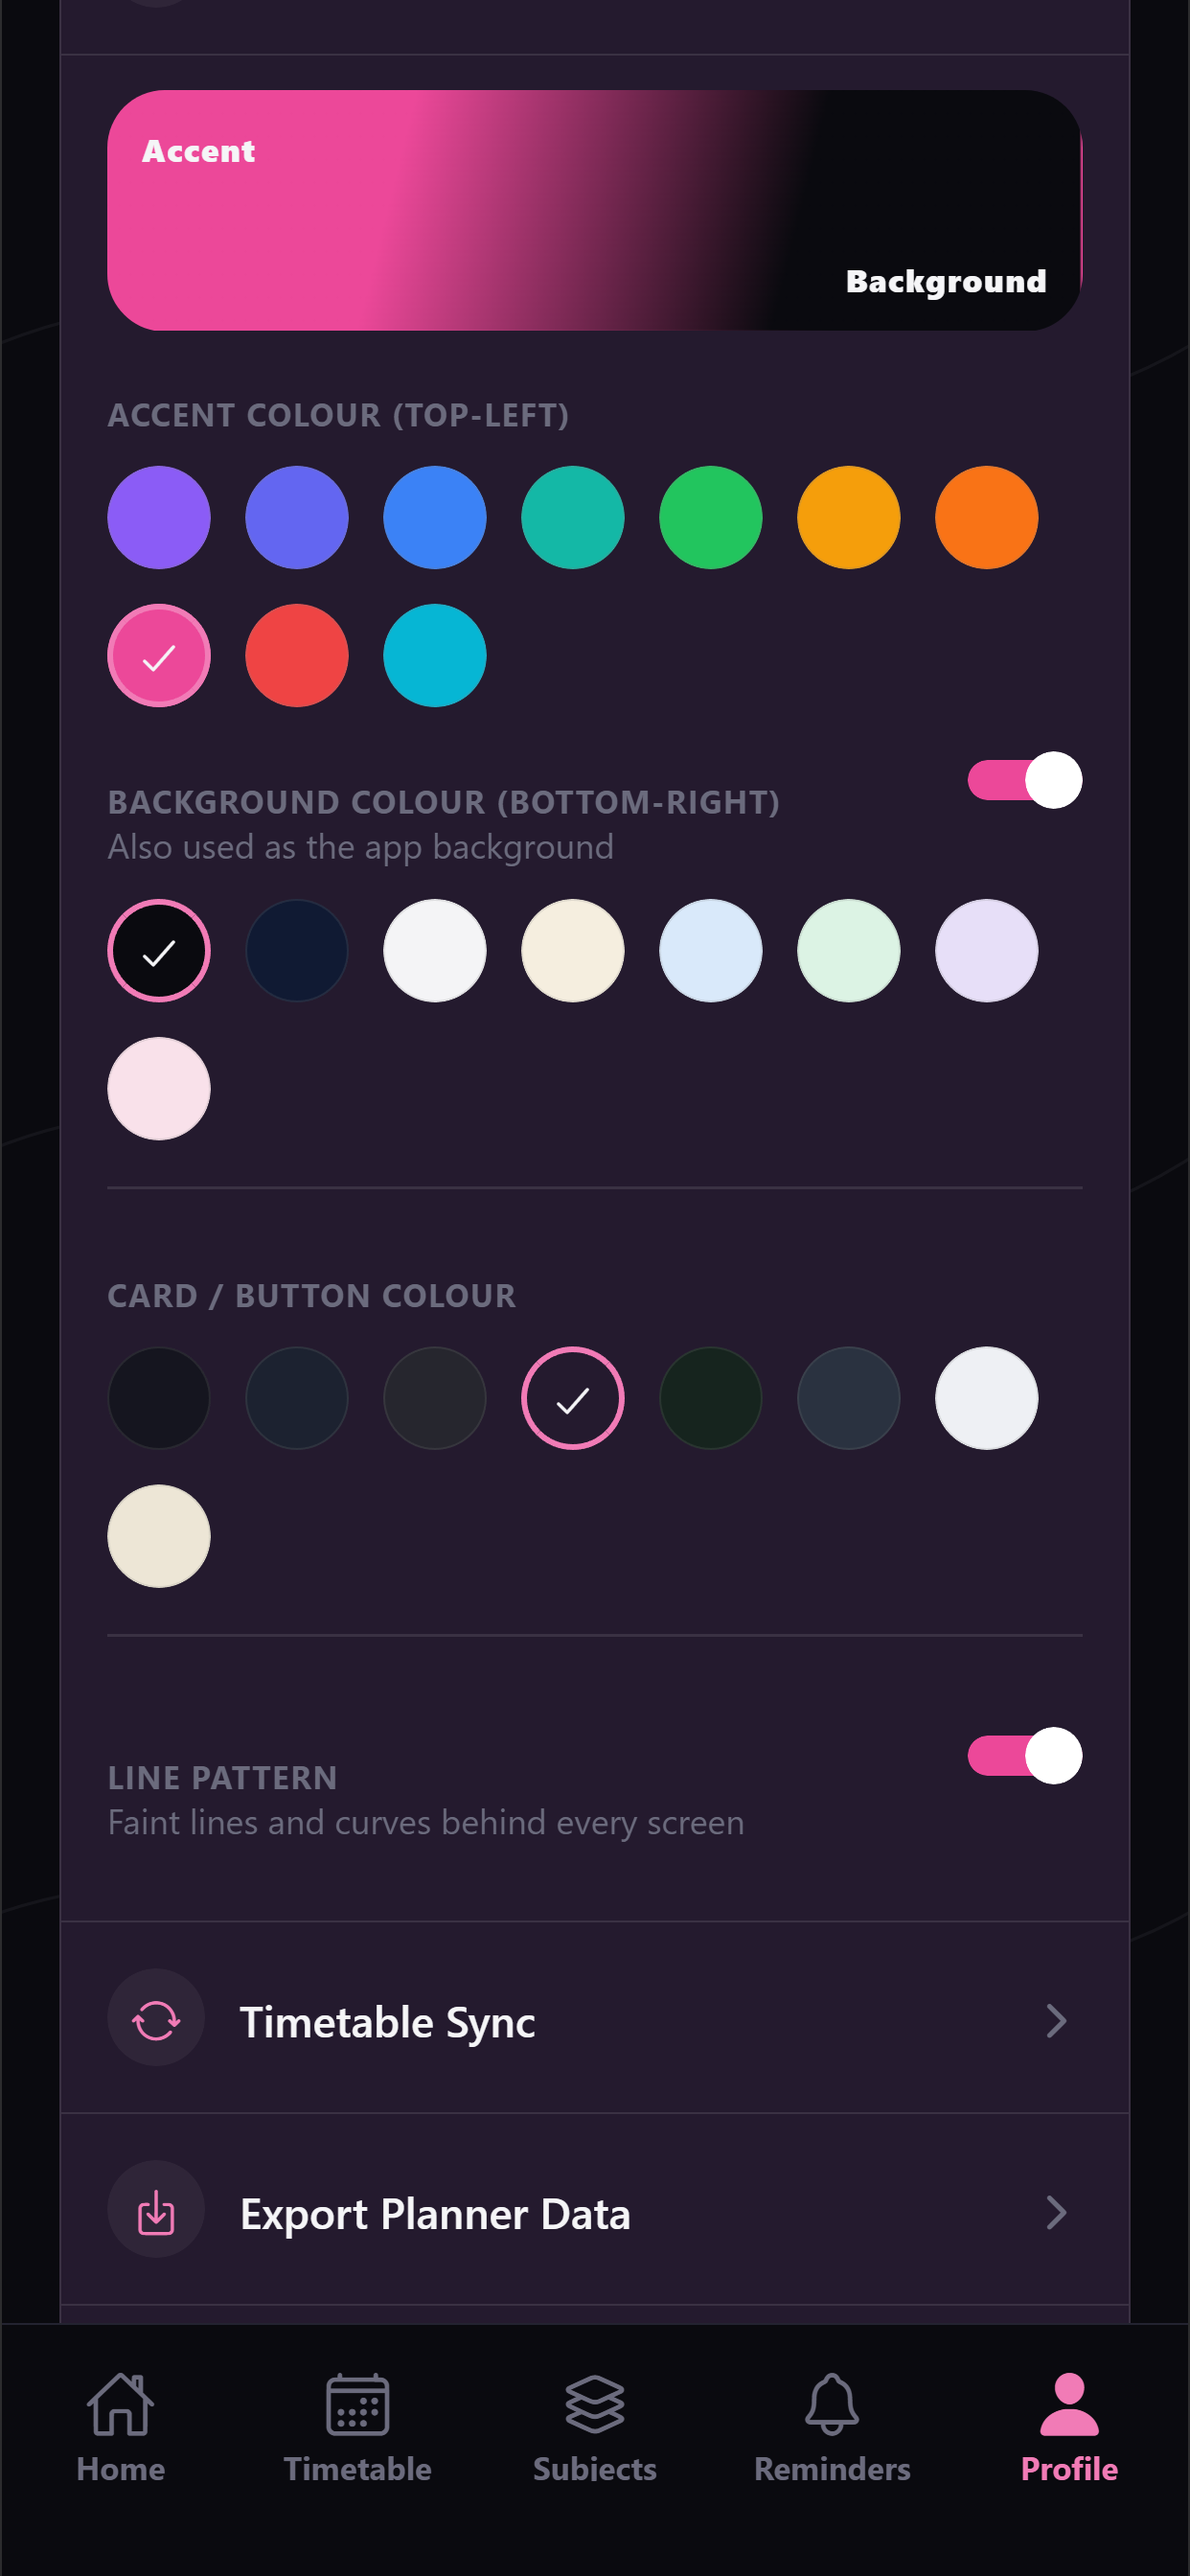
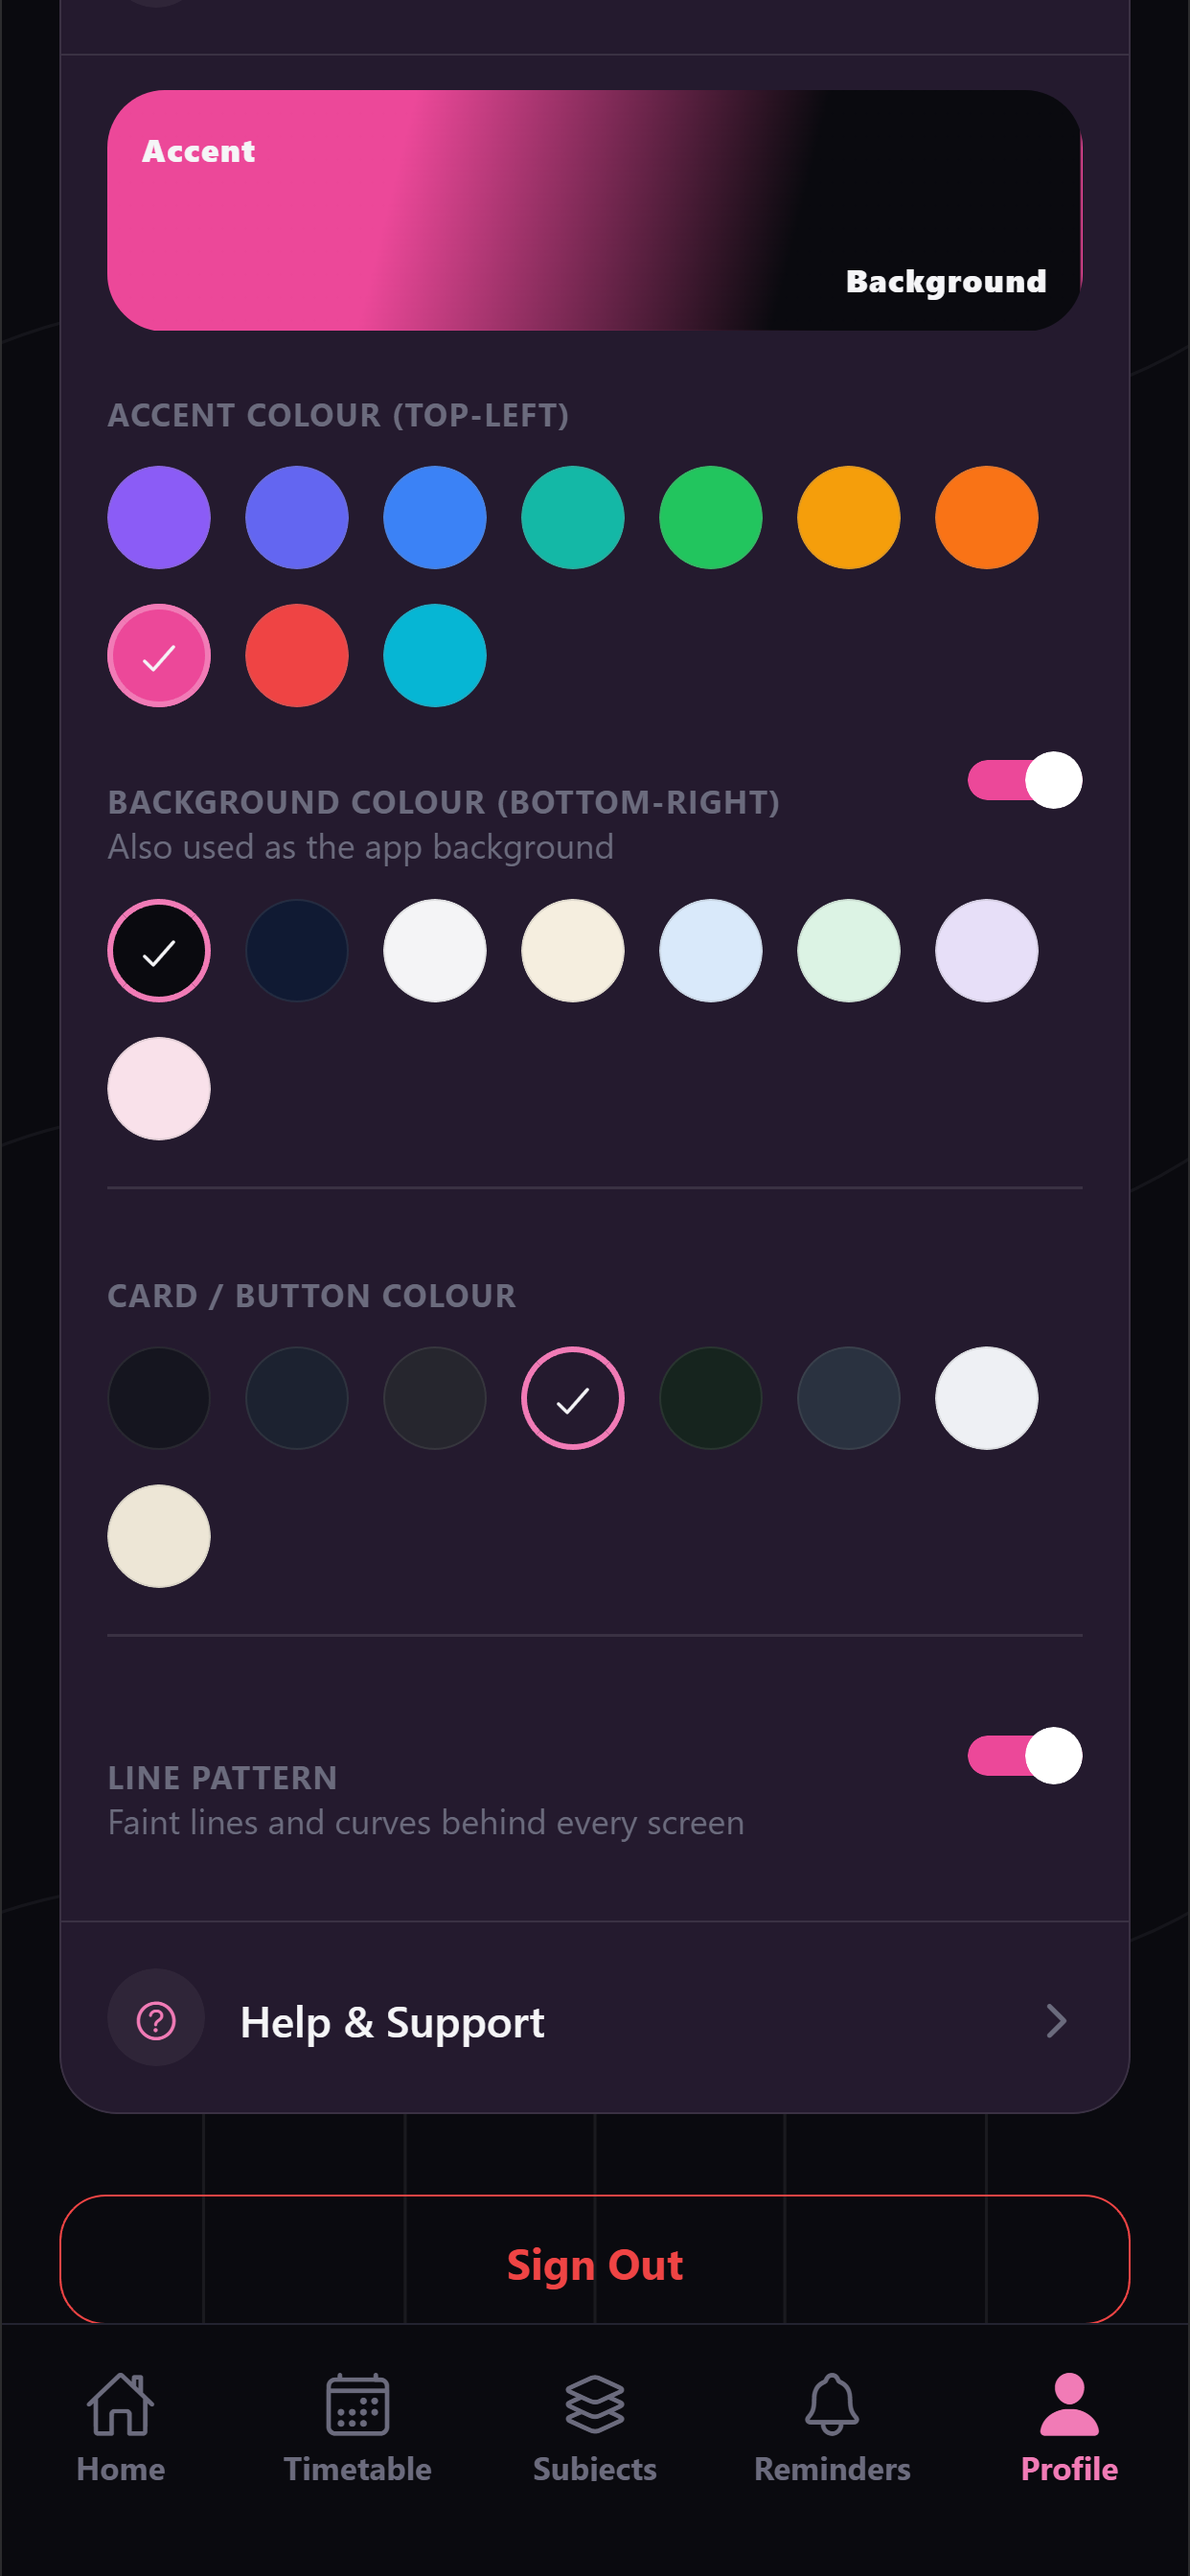
Make the profile menu do what it says
Timetable Sync and Export Planner Data are gone: both were rows with no
onPress, so tapping them did nothing, and shipping a menu item that is
only a label invites a reviewer to ask what it does.

Notifications now opens the app's own page in iOS Settings. Permission to
notify belongs to the system, so sending people there is honest about who
holds the switch, rather than drawing one we cannot honour.

Help & Support expands in place with the support address, tappable to
open a mail composer.

The App Store description loses its claim about exporting planner data,
which the app does not do.

Changed region(s): [[0.0306, 0.7812, 0.9485, 0.9062]]

diff --git a/src/screens/Profile/ProfileScreen.tsx b/src/screens/Profile/ProfileScreen.tsx
@@ -2,6 +2,7 @@ import React, { useEffect, useRef, useState } from 'react';
 import {
   Animated,
   Easing,
+  Linking,
   ScrollView,
   StyleSheet,
   Switch,
@@ -26,17 +27,24 @@ import {
   contrastText,
 } from '../../store/useThemeStore';
 
-const SETTINGS_ROWS: { icon: keyof typeof Ionicons.glyphMap; label: string }[] = [
-  { icon: 'notifications-outline', label: 'Notifications' },
-  { icon: 'color-palette-outline', label: 'Theme' },
-  { icon: 'sync-outline', label: 'Timetable Sync' },
-  { icon: 'download-outline', label: 'Export Planner Data' },
-  { icon: 'help-circle-outline', label: 'Help & Support' },
+/** Where to write when something goes wrong. */
+const SUPPORT_EMAIL = 'mystudyflowbusiness@gmail.com';
+
+const SETTINGS_ROWS: {
+  icon: keyof typeof Ionicons.glyphMap;
+  label: string;
+  /** What the row does: open iOS settings, or expand underneath itself. */
+  kind: 'notifications' | 'theme' | 'help';
+}[] = [
+  { icon: 'notifications-outline', label: 'Notifications', kind: 'notifications' },
+  { icon: 'color-palette-outline', label: 'Theme', kind: 'theme' },
+  { icon: 'help-circle-outline', label: 'Help & Support', kind: 'help' },
 ];
 
 export function ProfileScreen() {
   const t = useBaseTheme();
   const [themeExpanded, setThemeExpanded] = useState(false);
+  const [helpExpanded, setHelpExpanded] = useState(false);
   const baseColor = useThemeStore((s) => s.baseColor);
   const setBaseColor = useThemeStore((s) => s.setBaseColor);
   const accentColor = useThemeStore((s) => s.accentColor);
@@ -96,7 +104,9 @@ export function ProfileScreen() {
 
         <View style={[styles.settingsList, { backgroundColor: t.card, borderColor: t.cardBorder }]}>
           {SETTINGS_ROWS.map((row, i) => {
-            const isTheme = row.label === 'Theme';
+            const isTheme = row.kind === 'theme';
+            const isHelp = row.kind === 'help';
+            const expanded = (isTheme && themeExpanded) || (isHelp && helpExpanded);
             return (
               <React.Fragment key={row.label}>
                 <TouchableOpacity
@@ -105,18 +115,43 @@ export function ProfileScreen() {
                     i !== SETTINGS_ROWS.length - 1 && [styles.settingsRowBorder, { borderBottomColor: t.cardBorder }],
                   ]}
                   activeOpacity={0.7}
-                  onPress={isTheme ? () => setThemeExpanded((v) => !v) : undefined}
+                  onPress={
+                    isTheme
+                      ? () => setThemeExpanded((v) => !v)
+                      : isHelp
+                      ? () => setHelpExpanded((v) => !v)
+                      : // Notifications are granted by iOS, not by us, so this
+                        // opens the app's own page in Settings rather than
+                        // pretending to hold a switch we do not own.
+                        () => Linking.openSettings()
+                  }
                 >
                   <View style={[styles.settingsIconWrap, { backgroundColor: t.cardAlt }]}>
                     <Ionicons name={row.icon} size={18} color={t.accentLight} />
                   </View>
                   <Text style={[styles.settingsLabel, { color: t.onCard }]}>{row.label}</Text>
                   <Ionicons
-                    name={isTheme && themeExpanded ? 'chevron-down' : 'chevron-forward'}
+                    name={expanded ? 'chevron-down' : 'chevron-forward'}
                     size={18}
                     color={t.onCardMuted}
                   />
                 </TouchableOpacity>
+
+                {isHelp && helpExpanded && (
+                  <View style={[styles.helpWrap, { borderTopColor: t.cardBorder }]}>
+                    <Text style={[styles.helpText, { color: t.onCardSecondary }]}>
+                      For help and support, get in touch at
+                    </Text>
+                    <TouchableOpacity
+                      activeOpacity={0.7}
+                      onPress={() => Linking.openURL(`mailto:${SUPPORT_EMAIL}`)}
+                    >
+                      <Text style={[styles.helpEmail, { color: t.accentLight }]}>
+                        {SUPPORT_EMAIL}
+                      </Text>
+                    </TouchableOpacity>
+                  </View>
+                )}
 
                 {isTheme && themeExpanded && (
                   <View style={[styles.paletteWrap, { borderBottomColor: t.cardBorder }]}>
@@ -355,6 +390,15 @@ const styles = StyleSheet.create({
     borderBottomWidth: 1,
     borderBottomColor: colors.border,
   },
+  helpWrap: {
+    paddingHorizontal: spacing.lg,
+    paddingTop: spacing.md,
+    paddingBottom: spacing.lg,
+    borderTopWidth: 1,
+    borderTopColor: colors.border,
+  },
+  helpText: { fontSize: 13.5, lineHeight: 19 },
+  helpEmail: { fontSize: 14.5, fontWeight: '700', marginTop: spacing.xs },
   paletteHint: {
     color: colors.textMuted,
     fontSize: 11,
